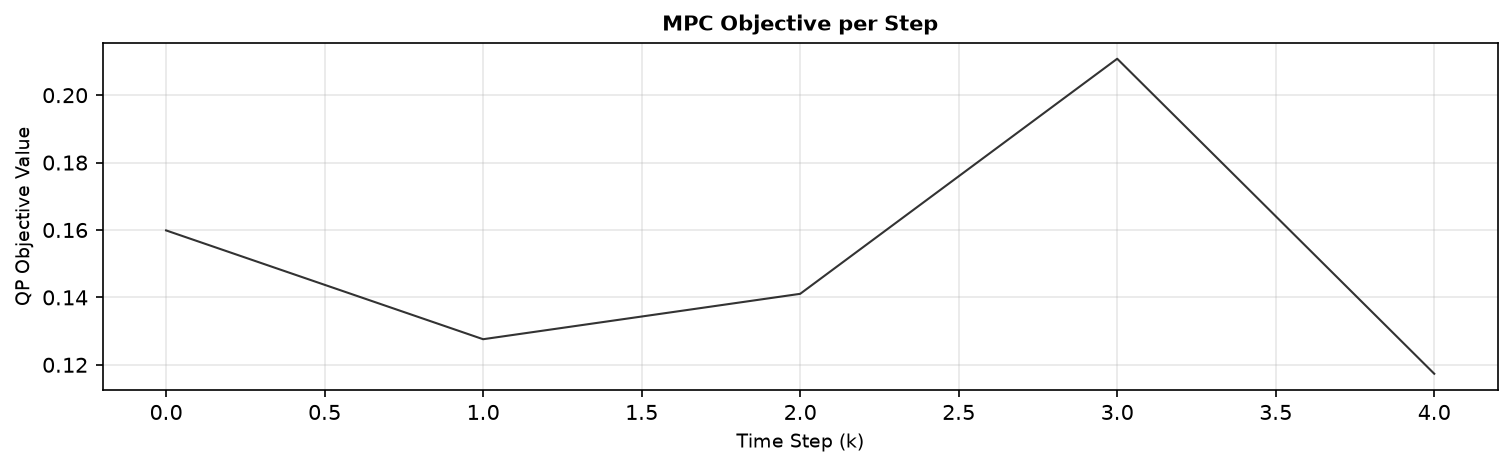
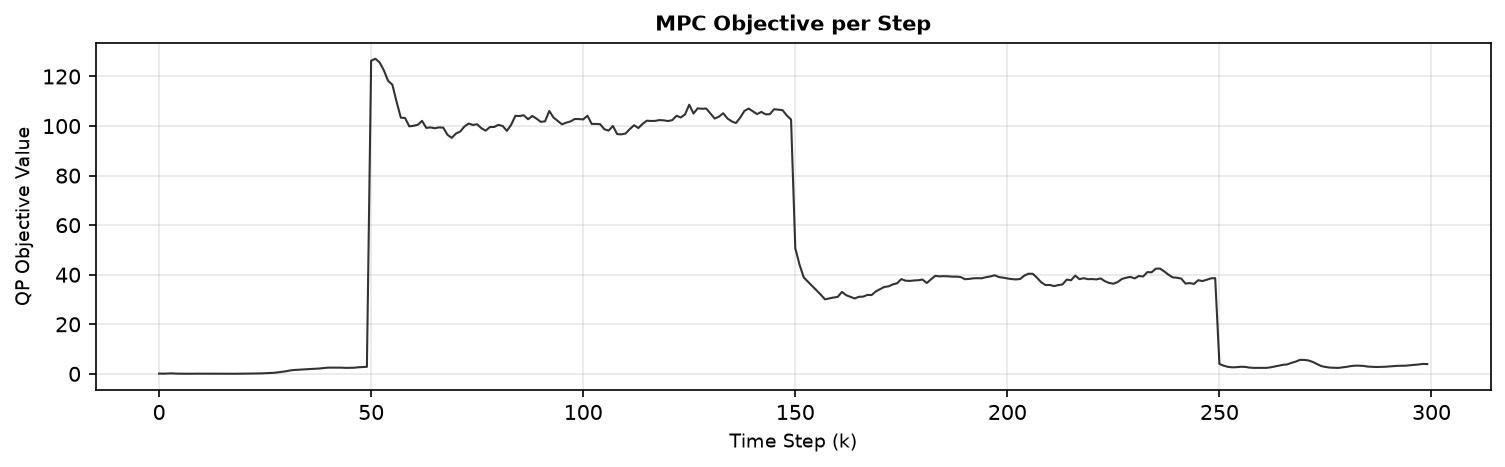
Fiest run

diff --git a/README.md b/README.md
@@ -1,4 +1,4 @@
-# 🎬 Blown Film MPC
+# Blown Film MPC
 
 > **Data-driven System Identification and Model Predictive Control
 > for a Co-Extrusion Blown Film Manufacturing Line**
